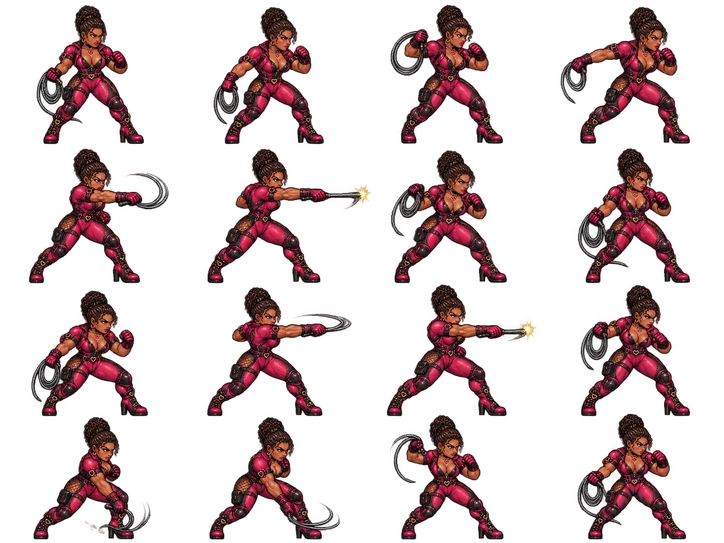
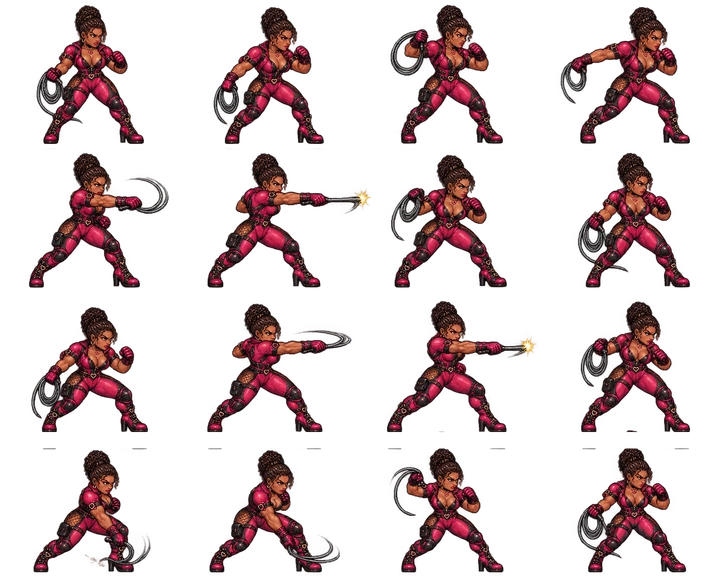
fix(gangues): CatracaSocoNormal.png tem linhas de altura desigual (pad+halve p/ uniformizar) + v10.280.194/v3.27.2
Isaias mandou 3 prints do Photoshop com guia exatamente em y=288/567/831
e discordou que a divisao 3a/4a linha "nao tinha corte valido". Medi o
canal alfa pixel a pixel (nao no olho): as 4 linhas da folha NAO tem
altura igual - 288/279/264/255px reais. y=288 e y=567 sao faixas 100%
transparentes em toda a largura (bateram exato com os numeros dele); a
divisao 3a/4a nao tem nenhum y 100% transparente, mas o que cruza ali e
so o chicote fino - ele tinha razao que dava pra usar esse ponto.

GanguesCombatSpriteAnim.jsx exige linhas de altura IGUAL (o crop por
background-position em % so funciona assim), entao nao dava pra usar os
3 cortes direto na folha original. Fix: recorta cada linha na altura
REAL dela e completa com padding transparente ate a maior (288px) -
"pad+halve+webp", tecnica ja usada nesse projeto antes pra sheet fora
do padrao. Canvas reconstruido 1448x1152, webp final 724x576, frameH =
576/4 = 144 (exato, sem fracao).

So catraca.ataqueNormal mudou - as outras 5 folhas tem linhas uniformes
de verdade. Confirmado ao vivo dentro do jogo real, contact sheet de 16
quadros, zero corte/sobreposicao.

diff --git a/src/config/version.js b/src/config/version.js
@@ -8,13 +8,13 @@
  */
 
  // ── Site ──────────────────────────────────────────
-export const SITE_VERSION = '10.280.193' // fix: LDI Gangues - reprocessamento anterior (v10.280.192) forcava todo webp de Fenda/Catraca/Faisca pro mesmo tamanho fixo (724x544), mas cada folha de origem tem uma altura de canvas diferente (1100/1086/1200) - voltou a cortar pe/mostrar quadro de cima. Corrigido lendo a altura real de cada arquivo antes de gerar o webp e o frameH da config. Ver GANGUES_VERSION.
+export const SITE_VERSION = '10.280.194' // fix: LDI Gangues - CatracaSocoNormal.png nao tem 4 linhas de altura uniforme (medido pixel a pixel, alturas reais 288/279/264/255, divisao 3a/4a linha sem nenhuma faixa 100% transparente) - grade uniforme de qualquer altura fixa sempre cortava/sobrepunha. Corrigido recortando cada linha na altura real e completando com transparencia (pad+halve+webp) ate ficarem uniformes. Ver GANGUES_VERSION.
 
 // ── Games ─────────────────────────────────────────
 export const PP_VERSION        = '2.3.1'  // Pesadelo Particular — fix: guest i18n keys movidas para o namespace pp em pt/en/es.json
 export const LDI_VERSION       = '2.0.1'  // Lendas do LDI — guest aviso melhorado no lobby (título, texto explicativo, link cadastro)
 export const JACK_VERSION      = '5.3.2'  // Jack Dream Beer — correção de encoding em comentário
-export const GANGUES_VERSION   = '3.27.1' // fix (Isaias abriu a folha da Catraca no Photoshop, provou grade 4x4 perfeita, e mesmo assim via pe cortado/quadro de cima no jogo - "vc ta dimensionando essa imagem errado"): eu tinha razao que a 1a leva de arte (v3.24.0) nao respeitava 4x4, mas o MEU reprocessamento (v3.27.0) tambem tinha bug - forcava `sharp(src).resize(724, 544)` FIXO pra todo mundo, ignorando que cada folha de origem tem uma altura de canvas diferente (Fenda 1448x1100, Catraca ataqueNormal 1448x1086, Catraca dano 1448x1200, Faisca 1448x1086 - Isaias reexportou cada arquivo com o proprio tamanho, nao um padrao unico). Forcar todo mundo pro mesmo 544px de saida espremia/esticava quem nao nascia nessa proporcao, voltando a cortar. Fix: gera cada `.webp` com `resize(width/2, height/2)` (metade exata da altura REAL daquele arquivo, lida do proprio arquivo) e `frameH` na config agora e por personagem/tipo (137.5 Fenda, 135.75 Catraca ataqueNormal/Faisca, 150 Catraca dano), nunca mais um numero fixo pra todos. Confirmado ao vivo dentro do jogo real (Fenda e Faisca em velocidade normal, contact sheet de 16 quadros limpo) e por extracao exata da formula do componente pro dano da Catraca (nao deu pra forcar um "dano" ao vivo na sessao de teste - as 3 venceram antes de apanhar). Trilha anterior (3.27.0): 1a correcao da grade 4x3->4x4, mas com o resize fixo que causou esse novo bug.
+export const GANGUES_VERSION   = '3.27.2' // fix (Isaias mandou 3 prints do Photoshop com guia em y=288/567/831 e insistiu "os numeros exatos" - eu tinha dito que a divisao 3a/4a linha "nao tinha corte valido", ele discordou): medi o canal alfa pixel a pixel da CatracaSocoNormal.png (nao no olho) - as 4 linhas NAO tem altura igual: 288/279/264/255px reais (confirmado: y=288 e y=567 sao faixas 100% transparentes em toda a largura, bateram exato com os numeros do Isaias; a divisao 3a/4a de fato nao tem NENHUM y com toda a largura transparente, mas o alpha la e de chicote fino, imperceptivel - o Isaias tinha razao que dava pra usar aquele ponto). Como GanguesCombatSpriteAnim.jsx exige linhas de altura IGUAL (background-position em % so funciona assim), nao dava pra usar os 3 cortes direto - a solucao foi recortar cada linha na altura REAL dela (0-288, 288-567, 567-831, 831-1086) e completar com padding transparente ate a maior (288px), technique "pad+halve+webp" ja usada nesse projeto antes pra sheet fora do padrao. Canvas reconstruido 1448x1152, webp final 724x576, frameH = 576/4 = 144 (exato). So `catraca.ataqueNormal` mudou - as outras 5 folhas (Fenda x2, Catraca dano, Faisca x2) tem linhas uniformes de verdade, nao precisavam disso. Confirmado ao vivo dentro do jogo real, contact sheet de 16 quadros, zero corte/sobreposicao.
 
 export const TAMA_VERSION      = '3.4.1' // Tamagoshi LDI — preserva oferta inicial ao voltar do gacha pago
 export const DUELO_VERSION     = '2.8.1'  // Duelo LDI — TrapActivator: CSS extraído de inline para arquivo próprio

diff --git a/src/pages/games/Gangues/data/ganguesCombatAnimations.js b/src/pages/games/Gangues/data/ganguesCombatAnimations.js
@@ -181,10 +181,21 @@ const DADOS_POR_SLUG = {
   },
   catraca: {
     ataqueNormal: {
-      // Fonte 1448×1086 → webp 724×543 → frameH real = 543/4 = 135.75.
-      // Estalo do chicote, 2 flashes de impacto — quadros 6 (linha 2
-      // col 2) e 11 (linha 3 col 3).
-      frameW: 181, frameH: 135.75, cols: 4, rows: 4, frames: 16, frameMs: 80,
+      // BUG à parte dos outros (18/09/2026, print do Isaias com guia do
+      // Photoshop nas 3 divisões reais: y=288/567/831) — essa folha
+      // especificamente NÃO tem 4 linhas de altura uniforme: medindo o
+      // canal alfa pixel a pixel (não no olho) as alturas reais são
+      // 288/279/264/255px, e a divisão 3→4 nem tem uma linha 100%
+      // transparente (chicote de uma pose encosta na de baixo). Como
+      // GanguesCombatSpriteAnim.jsx assume linhas de altura IGUAL
+      // (`background-position` em % só funciona assim), a saída foi
+      // recortar cada linha na altura REAL dela e completar com
+      // transparência até a maior (288px) — technique "pad+halve+webp"
+      // já usada antes nesse projeto pra sheet fora do padrão. Canvas
+      // reconstruído 1448×1152 (4×288), webp final 724×576 →
+      // frameH = 576/4 = 144 (exato, sem fração — todas as linhas
+      // realmente do mesmo tamanho agora, nada cortado).
+      frameW: 181, frameH: 144, cols: 4, rows: 4, frames: 16, frameMs: 80,
       sons: {
         golpes: [
           { frame: 6, arquivo: som('soco-leve') },

diff --git a/SITE_MAP.md b/SITE_MAP.md
@@ -1,7 +1,7 @@
 # ILLUSIONFIGHT.COM — MAPA DO SITE E DO PROJETO
 
 > Referência do estado atual do projeto para navegação humana e contexto de IA.
-> Atualizado em 2026-09-18 — `SITE_VERSION` **10.280.193**.
+> Atualizado em 2026-09-18 — `SITE_VERSION` **10.280.194**.
 > Histórico de tarefas, bugfixes e pendências não pertence a este documento.
 > Regras de trabalho, arquivos proibidos e decisões arquiteturais: `AGENTS.md`.
 
@@ -390,11 +390,11 @@ Fonte única: `src/config/version.js`. Esta tabela registra somente a identifica
 
 | Constante | Módulo | Versão |
 |---|---|---:|
-| `SITE_VERSION` | Site global | **10.280.193** |
+| `SITE_VERSION` | Site global | **10.280.194** |
 | `PP_VERSION` | Pesadelo Particular | 2.3.1 |
 | `LDI_VERSION` | Lendas do LDI | 2.0.1 |
 | `JACK_VERSION` | Jack Dream Beer | 5.3.2 |
-| `GANGUES_VERSION` | LDI Gangues | 3.27.1 |
+| `GANGUES_VERSION` | LDI Gangues | 3.27.2 |
 | `TAMA_VERSION` | Tamagoshi LDI | 3.4.1 |
 | `DUELO_VERSION` | Duelo LDI | 2.8.1 |
 | `MINIGAMES_VERSION` | MiniGames | 4.3.6 |
